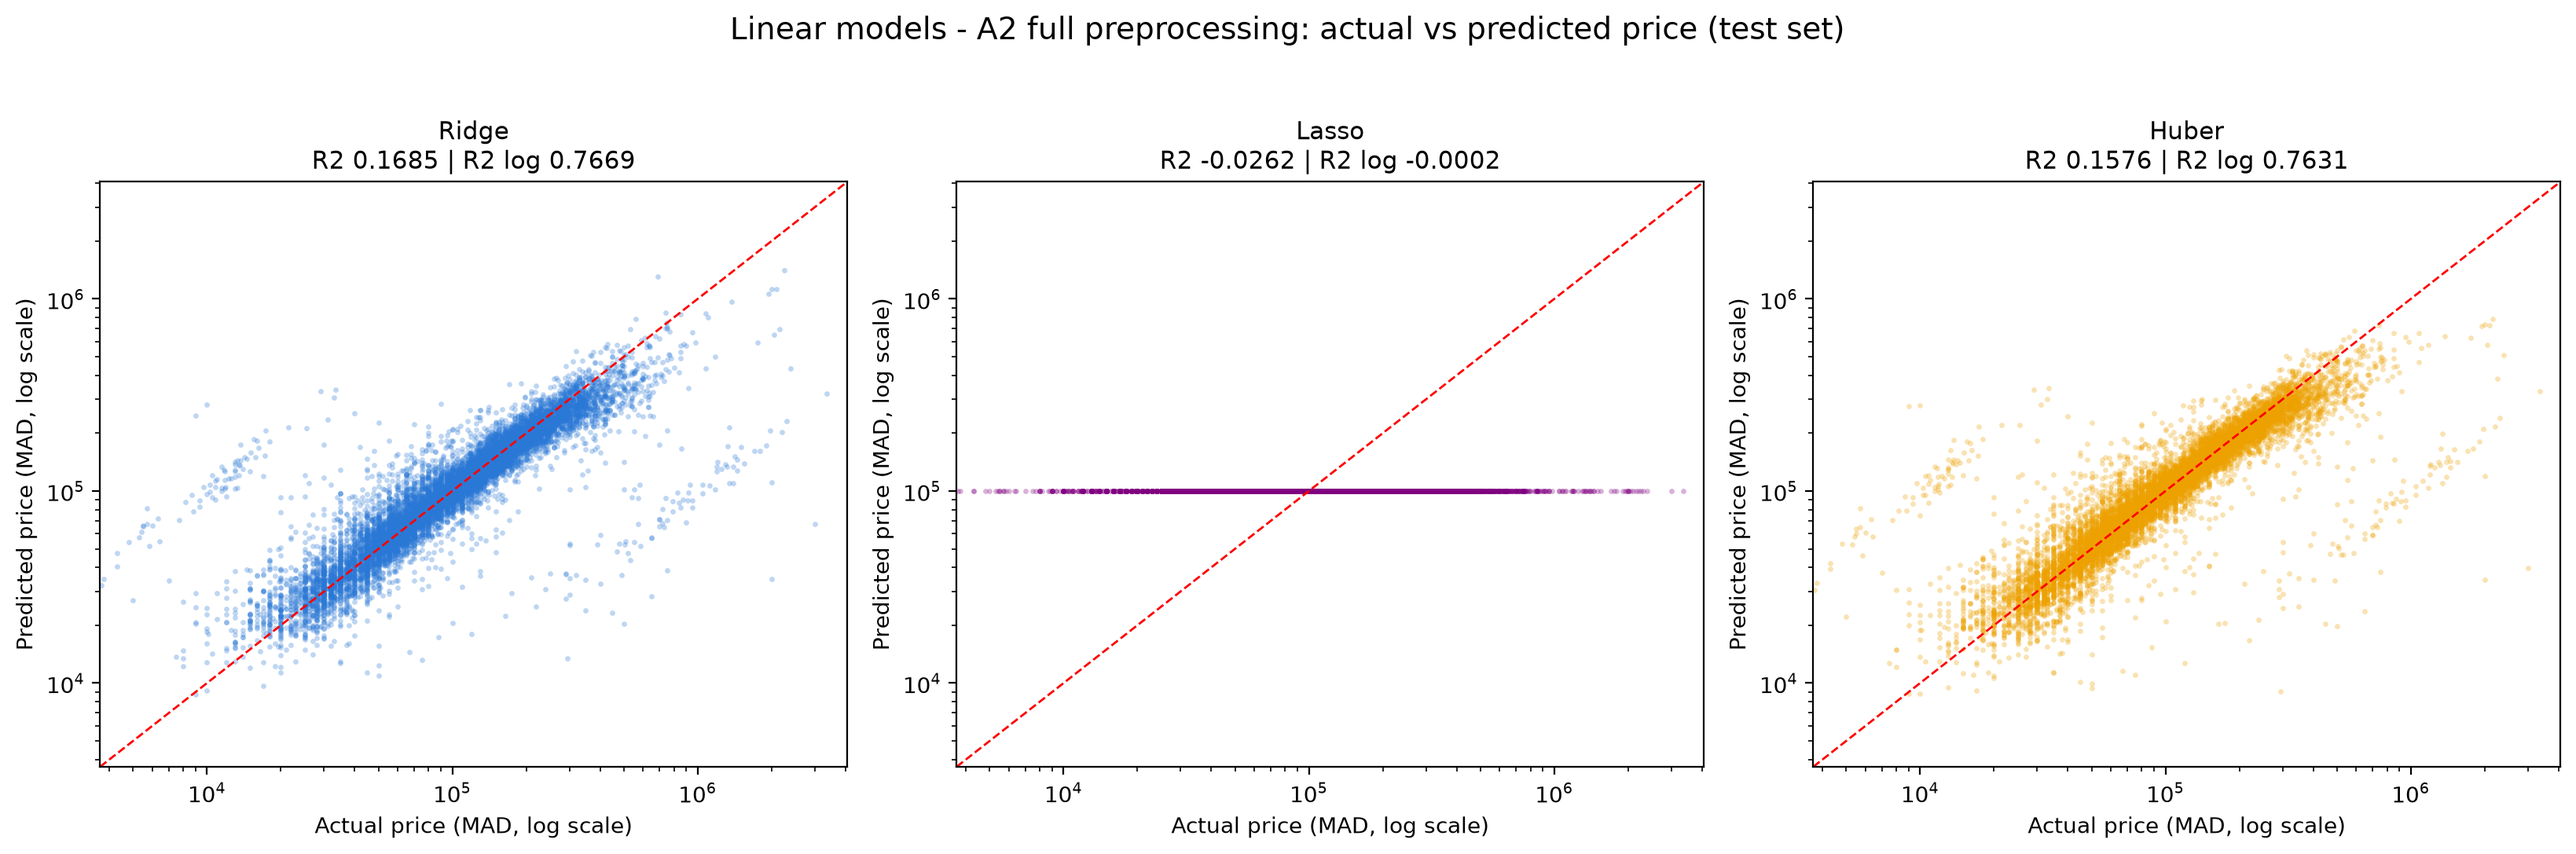
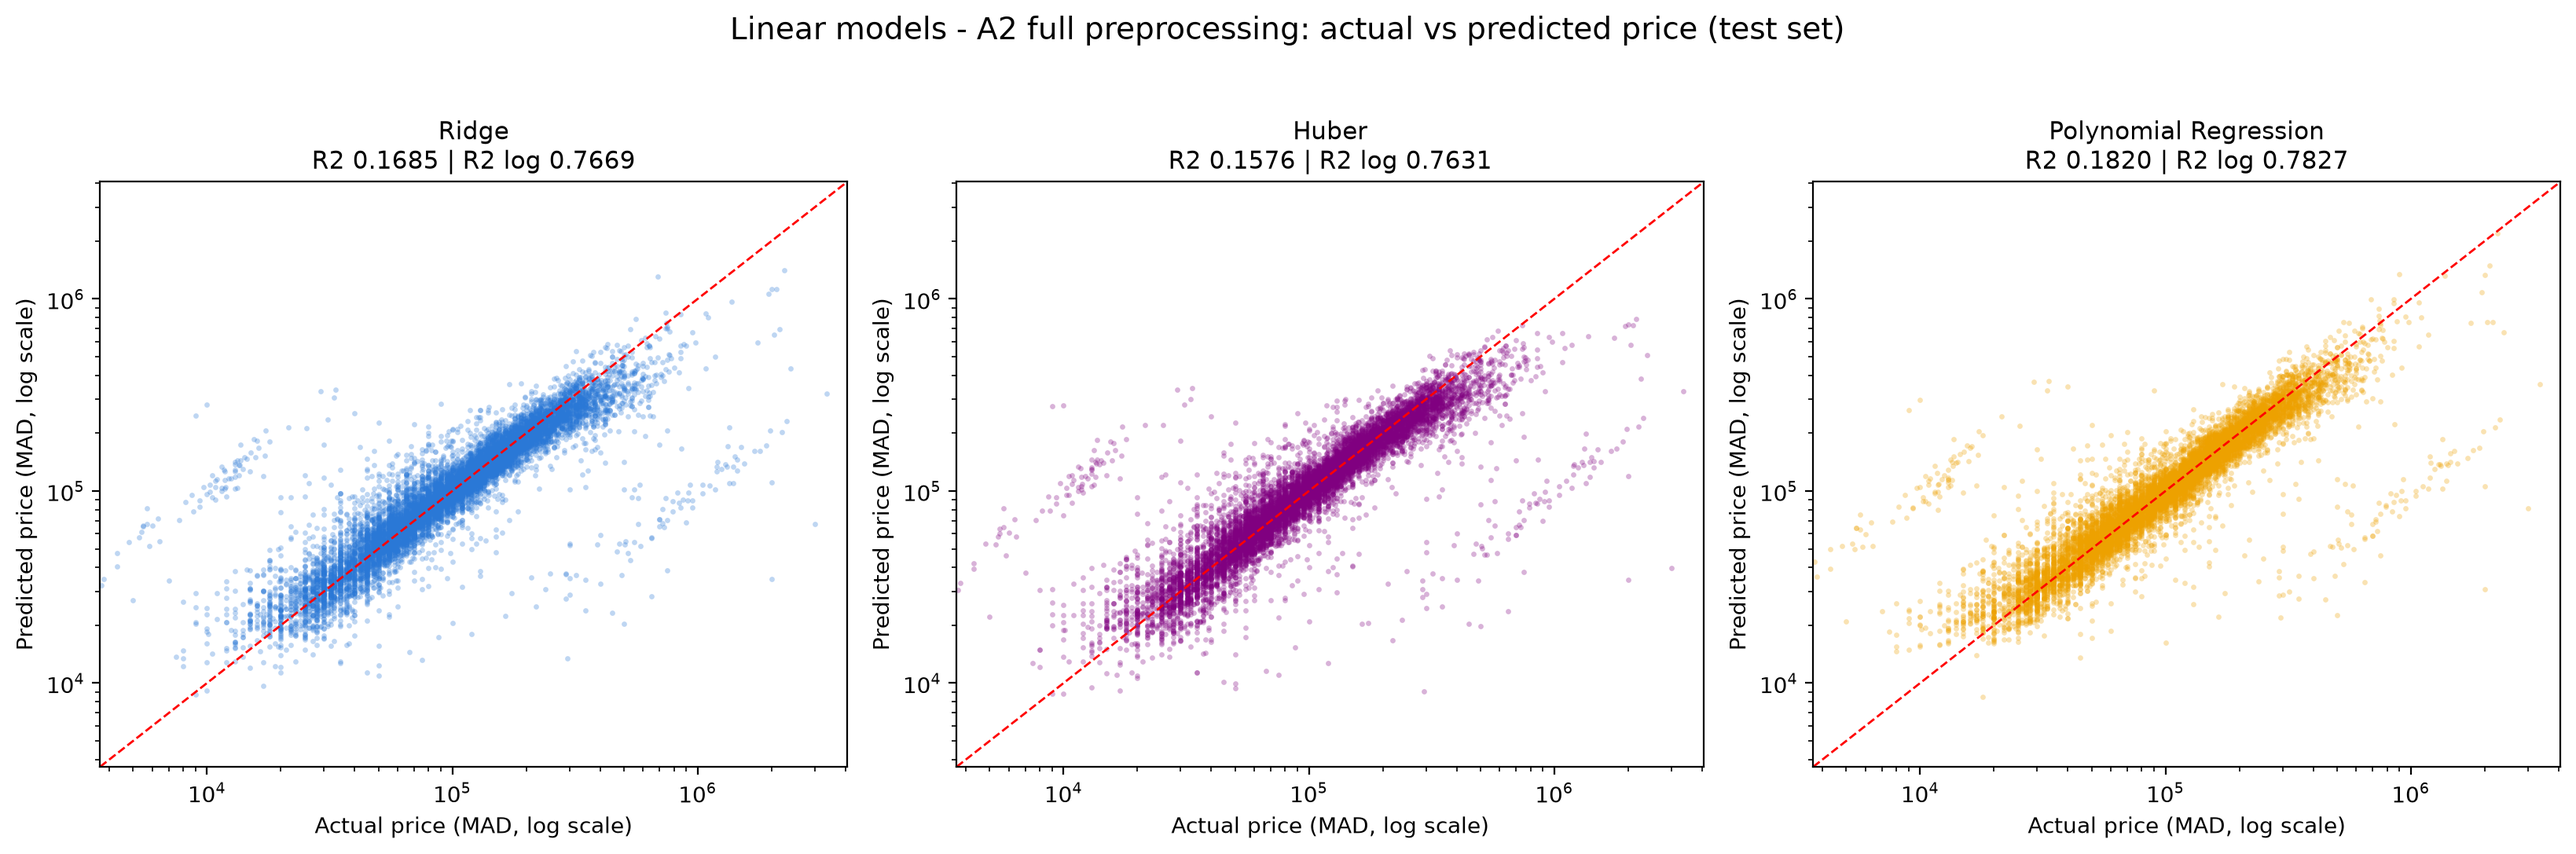
Replaces lasso model with polynomial model

diff --git a/src/models/linear_models.py b/src/models/linear_models.py
@@ -1,22 +1,39 @@
-"""Linear models: Ridge, Lasso, Huber. Run it and type a stage number."""
+"""Linear models: Ridge, Huber, Polynomial Regression. Run it and type a stage number."""
 import sys
 from pathlib import Path
 
-from sklearn.linear_model import HuberRegressor, Lasso, Ridge
+import pandas as pd
+from sklearn.compose import ColumnTransformer
+from sklearn.linear_model import HuberRegressor, LinearRegression, Ridge
+from sklearn.pipeline import Pipeline
+from sklearn.preprocessing import PolynomialFeatures
 
 ROOT_DIR = Path(__file__).resolve().parents[2]
 if str(ROOT_DIR) not in sys.path:
     sys.path.append(str(ROOT_DIR))
 
+from src.preprocessing import full, minimal
 from src.shared.core_utils import RANDOM_STATE, evaluate
 from src.shared.experiment import cross_validate, save_results, timed
 from src.shared.stages import choose_stage, load_data
 
+N_NUMERIC = 0  # set in main(): number of numeric columns (always the last ones after encoding)
+
+
+def polynomial_regression():
+    add_poly_terms = ColumnTransformer(
+        [("numeric", PolynomialFeatures(),
+          lambda X: list(range(X.shape[1] - N_NUMERIC, X.shape[1])))],
+        remainder="passthrough",
+    )
+    return Pipeline([("poly", add_poly_terms), ("linreg", LinearRegression())])
+
+
 # All models use default parameters
 MODELS = {
     "Ridge": lambda: Ridge(random_state=RANDOM_STATE),
-    "Lasso": lambda: Lasso(random_state=RANDOM_STATE),
     "Huber": lambda: HuberRegressor(),
+    "Polynomial Regression": polynomial_regression,  # no (): the factory is called later, once per fit
 }
 
 
@@ -28,8 +45,13 @@ def fit_predict(make_model, split):
 
 
 def main():
+    global N_NUMERIC
     stage = choose_stage()
-    split = load_data(stage)
+    split = load_data(stage)  # also creates the stage's CSV if it is missing
+
+    csv_path, target = {"a1_baseline": (minimal.OUT_PATH, "Price"),
+                        "a2_preprocessed": (full.OUT_PATH, "Log Price")}[stage]
+    N_NUMERIC = pd.read_csv(csv_path, nrows=100).drop(columns=target).select_dtypes(include="number").shape[1]
 
     results, cv_results = {}, {}
     for name, make_model in MODELS.items():
